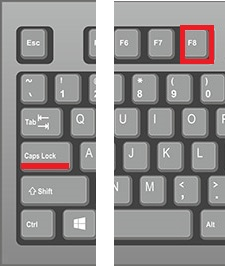
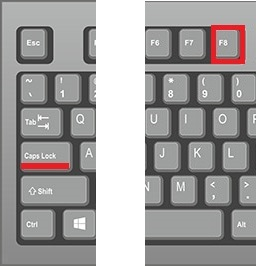
doc: how to

diff --git a/README.md b/README.md
@@ -20,23 +20,23 @@ Press <kbd>Caps/MAJ</kbd> to activate these scripts.
 
 ### AutoHotkey_arrows-to-wasd-on-capslock
 
-![image](scripts/AutoHotkey_arrows-to-wasd-on-capslock.png)
+![image](scripts/AutoHotkey_arrows-to-wasd-on-capslock.jpg)
 
 ### AutoHotkey_ctrl-h-show-hidden-files
 
-![image](scripts/AutoHotkey_ctrl-h-show-hidden-files.png)
+![image](scripts/AutoHotkey_ctrl-h-show-hidden-files.jpg)
 
 ### AutoHotkey_functionkeys-to-mouseclick
 
-![image](scripts/AutoHotkey_functionkeys-to-mouseclick.png)
+![image](scripts/AutoHotkey_functionkeys-to-mouseclick.jpg)
 
-### AutoHotkey_functionkeys-to-mouseclick
+### AutoHotkey_F8-to-printscreen-on-capslock
 
-![image](scripts/AutoHotkey_functionkeys-to-mouseclick.png)
+![image](scripts/AutoHotkey_F8-to-printscreen-on-capslock.jpg)
 
 ### AutoHotkey_numpad-to-keypad-on-capslock
 
-![image](scripts/AutoHotkey_numpad-to-keypad-on-capslock.png)
+![image](scripts/AutoHotkey_numpad-to-keypad-on-capslock.jpg)
 
 
 ## How do I put my hotkeys and hotstrings into effect automatically every time I start my PC?
@@ -47,6 +47,12 @@ There are several ways to make a script (or any program) launch automatically ev
 2. Press <kbd>Win</kbd>+<kbd>R</kbd> to open the Run dialog, then enter `shell:startup` and click OK or <kbd>Enter</kbd>. This will open the Startup folder for the current user. To instead open the folder for all users, enter `shell:common startup` (however, in that case you must be an administrator to proceed).
 3. Right click inside the window, and click "Paste Shortcut". The shortcut to the script should now be in the Startup folder.
 
+
+![image](docs/howto-windows-startup-1.png)
+
+![image](docs/howto-windows-startup-2.png)
+
+![image](docs/howto-windows-startup-3.png)
 
 ---
 
